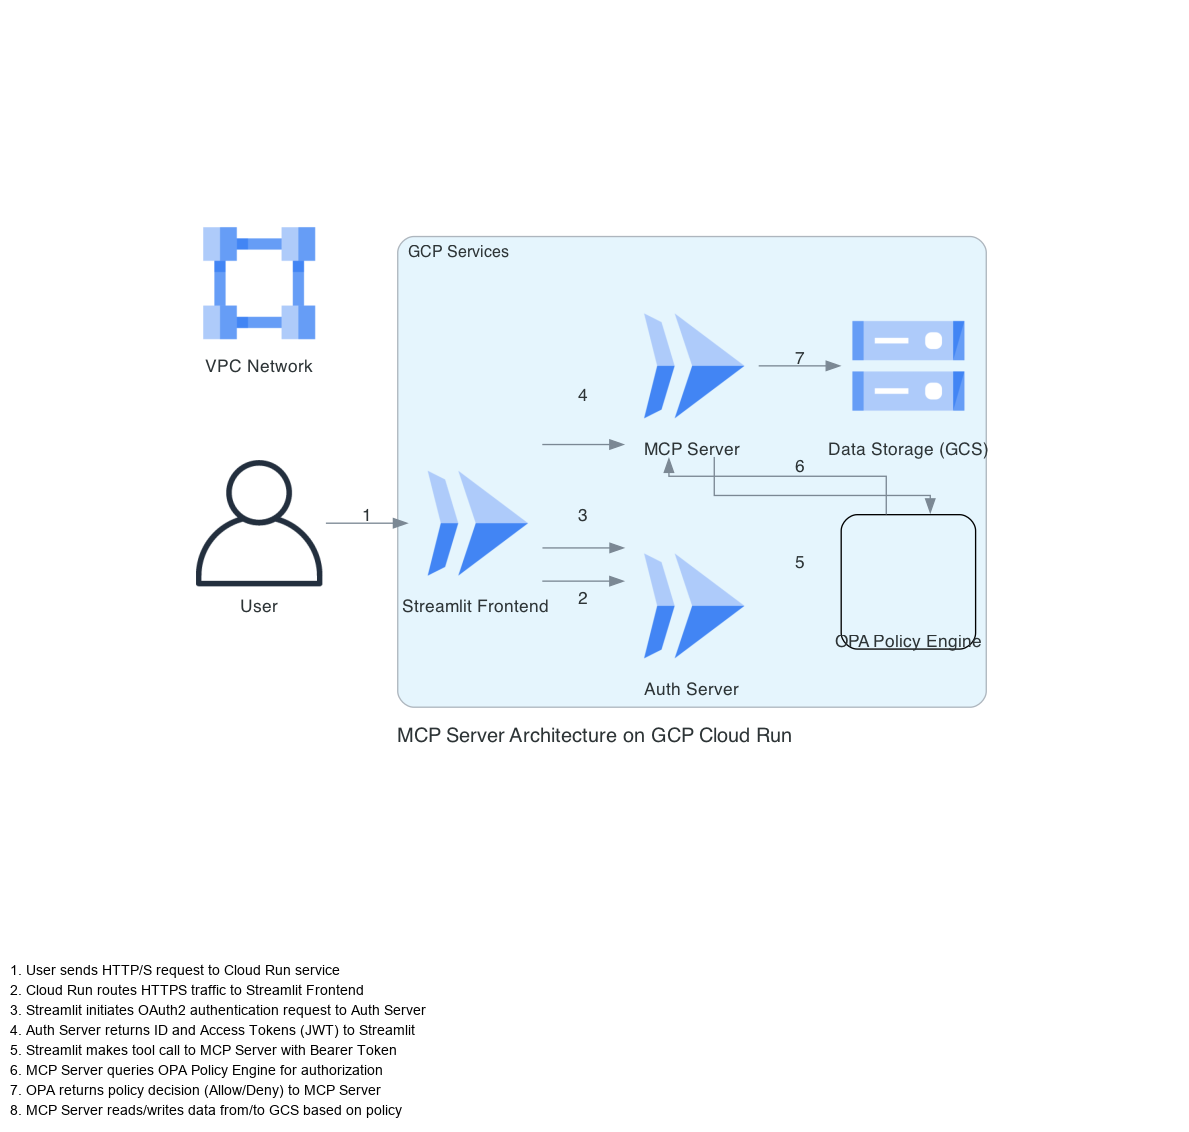
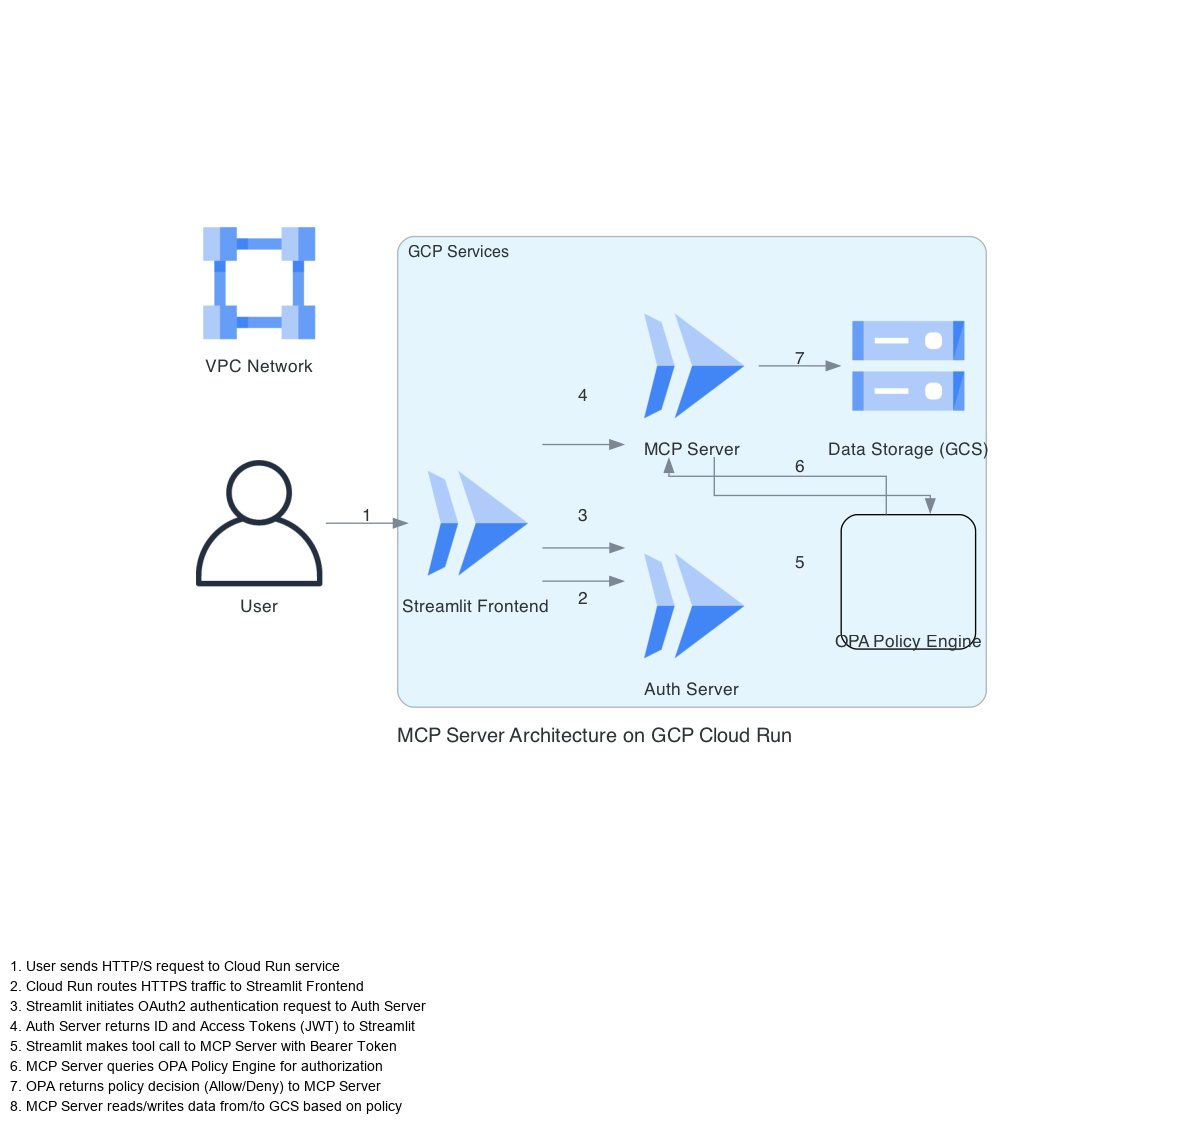
docs: restore original legend sizing; reduce legend gap to 6px (closer)

diff --git a/docs/generate_diagram.py b/docs/generate_diagram.py
@@ -67,11 +67,11 @@ img1_size = img1.size
 img2_size = img2.size
 new_width = max(img1_size[0], img2_size[0])
 # Reduce spacing so legend sits 10px closer (lift legend up by 10px)
-new_height = img1_size[1] + img2_size[1] + 10  # was +20
+new_height = img1_size[1] + img2_size[1] + 6  # was +20
 new_im = Image.new('RGB', (new_width, new_height), (255,255,255))
 
 # Paste the images, bringing legend up by 10px
 new_im.paste(img1, (0,0))
-new_im.paste(img2, (0, img1_size[1] + 10))
+new_im.paste(img2, (0, img1_size[1] + 6))
 
 new_im.save(os.path.join(os.getcwd(), "mcp_server_architecture_with_legend.png"), "PNG")
